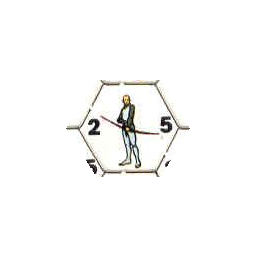
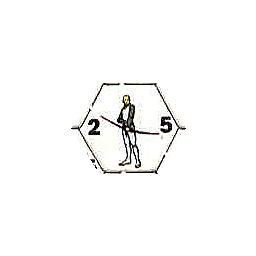
Restore full armies and optimize AI turns

Changed region(s): [[0.25, 0.3125, 0.75, 0.6875]]

diff --git a/scripts/extract_counter_art.py b/scripts/extract_counter_art.py
@@ -2,7 +2,7 @@
 """Rebuild the playable counter faces from the four original counter sheets."""
 
 from pathlib import Path
-from PIL import Image, ImageDraw
+from PIL import Image, ImageDraw, ImageFilter
 
 
 ROOT = Path(__file__).resolve().parent.parent
@@ -38,10 +38,12 @@ def extract(source: Image.Image, centre: tuple[int, int]) -> Image.Image:
     cx, cy = centre
     crop = source.crop((cx - 62, cy - 49, cx + 62, cy + 49)).convert("RGBA")
     mask = Image.new("L", crop.size, 0)
-    # Flat-top hexagon; stay just outside the original outline so no edge is lost.
-    ImageDraw.Draw(mask).polygon([(30, 1), (94, 1), (123, 49), (94, 97), (30, 97), (0, 49)], fill=255)
+    # Un piccolo margine interno elimina i frammenti delle pedine adiacenti
+    # presenti nelle scansioni a nido d'ape senza tagliare l'illustrazione.
+    ImageDraw.Draw(mask).polygon([(33, 4), (91, 4), (119, 49), (91, 94), (33, 94), (5, 49)], fill=255)
     crop.putalpha(mask)
     crop.thumbnail((246, 220), Image.Resampling.LANCZOS)
+    crop = crop.filter(ImageFilter.UnsharpMask(radius=1.2, percent=135, threshold=3))
     result = Image.new("RGBA", (SIZE, SIZE), (0, 0, 0, 0))
     result.alpha_composite(crop, ((SIZE - crop.width) // 2, (SIZE - crop.height) // 2))
     return result

diff --git a/scripts/build_terrain_map.py b/scripts/build_terrain_map.py
@@ -74,7 +74,7 @@ for position, is_bridge in bridge_signal.items():
     if 5 < col < 62 and 5 < row < 48 and is_bridge and any(bridge_signal.get(other, False) for other in neighbours(*position)):
         raw[position] = "bridge"
 
-result = {kind: [] for kind in ("sea", "forest", "mountain", "void", "bridge")}
+result = {kind: [] for kind in ("plain", "sea", "forest", "mountain", "void", "bridge")}
 for (col, row), kind in raw.items():
     if kind in result:
         result[kind].append([col, row])
